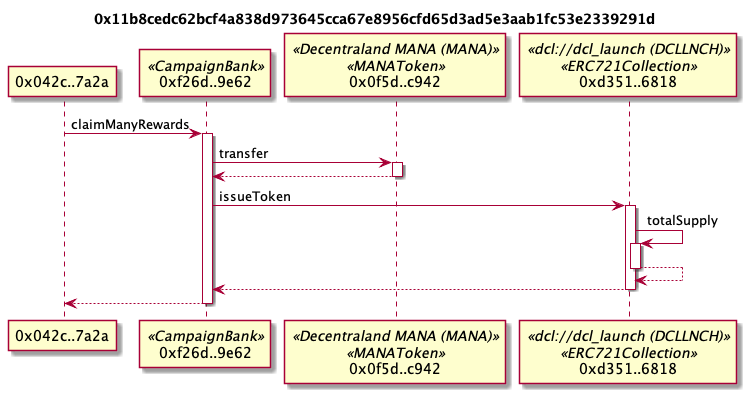
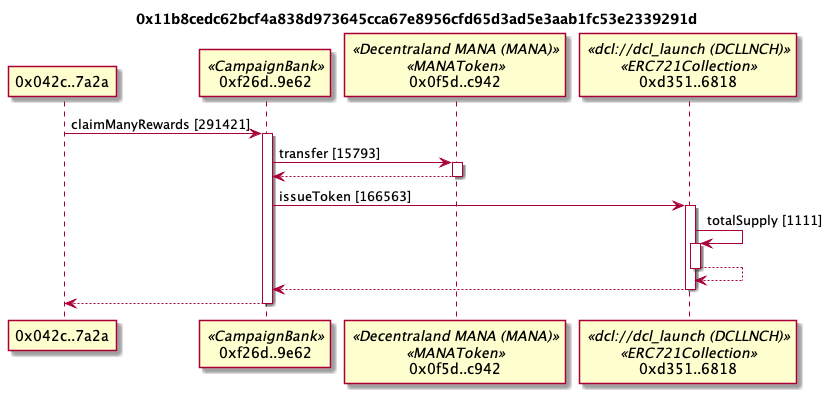
Added -g option for reporting gas usage Bumped version to 0.0.3

diff --git a/lib/plantUmlGenerator.js b/lib/plantUmlGenerator.js
@@ -6,10 +6,10 @@ Object.defineProperty(exports, "__esModule", { value: true });
 const transaction_1 = require("./transaction");
 const bignumber_js_1 = __importDefault(require("bignumber.js"));
 const debug = require("debug")("tx2uml");
-exports.genPlantUml = (messages, contracts, details) => {
+exports.genPlantUml = (messages, contracts, details, options = {}) => {
     let plantUml = `@startuml\ntitle ${details.hash}`;
     plantUml += exports.genParticipants(contracts);
-    plantUml += exports.genMessages(messages);
+    plantUml += exports.genMessages(messages, options);
     plantUml += "\n@endumls";
     debug(plantUml);
     return plantUml;
@@ -39,22 +39,22 @@ exports.participantId = (address) => {
 exports.shortAddress = (address) => {
     return address.substr(0, 6) + ".." + address.substr(-4, 4);
 };
-exports.genMessages = (messages, params = false) => {
+exports.genMessages = (messages, options) => {
     if (!(messages === null || messages === void 0 ? void 0 : messages.length)) {
         return "";
     }
     let contractCallStack = []; // array of contract addresses
     let previousMessage;
     let plantUml = "\n";
-    // for each contract call
+    // for each contract message
     for (const message of messages) {
         if (previousMessage && message.from !== previousMessage.to) {
             // reserve() is mutable so need to copy the array wih a spread operator
             const reservedCallStack = [...contractCallStack].reverse();
-            for (const contractAddress of reservedCallStack) {
-                plantUml += `return\n`;
+            for (const callStack of reservedCallStack) {
+                plantUml += genEndLifeline(callStack);
                 contractCallStack.pop();
-                if (message.from === contractAddress) {
+                if (message.from === callStack.from) {
                     break;
                 }
             }
@@ -62,26 +62,17 @@ exports.genMessages = (messages, params = false) => {
         if (message.type === transaction_1.MessageType.Call ||
             message.type === transaction_1.MessageType.Create) {
             // output call message
-            plantUml += `${exports.participantId(message.from)} ${genArrow(message)} ${exports.participantId(message.to)}: ${genFunctionText(message.payload, params)}\n`;
+            plantUml += `${exports.participantId(message.from)} ${genArrow(message)} ${exports.participantId(message.to)}: ${genFunctionText(message.payload, options.params)}${genGasUsage(message, options.gas)}\n`;
             plantUml += `activate ${exports.participantId(message.to)}\n`;
-            // If a successful transaction
-            if (message.status === true) {
-                contractCallStack.push(message.from);
-            }
-            else {
-                // a failed transaction so end the lifeline
-                plantUml += `destroy ${exports.participantId(message.to)}\n`;
-                if (message.error) {
-                    plantUml += `note right: ${message.error}\n`;
-                }
-                // clear callstack as we don't want to output any more returns
-                contractCallStack = [];
-            }
+            contractCallStack.push(message);
         }
         else if (message.type === transaction_1.MessageType.Value) {
             // convert wei to Ethers which is to 18 decimal places
             const ethers = new bignumber_js_1.default(message.value.toString()).div(new bignumber_js_1.default(10).pow(18));
-            plantUml += `${exports.participantId(message.from)} ${genArrow(message)} ${exports.participantId(message.to)}: ${ethers.toFormat(2)} ETH\n`;
+            plantUml += `${exports.participantId(message.from)} ${genArrow(message)} ${exports.participantId(message.to)}: ${ethers.toFormat(2)} ETH${genGasUsage(message, options.gas)}\n`;
+            // we want to avoid a return in the next loop so setting previous message from field so no returns are printed
+            previousMessage.to = message.from;
+            continue;
         }
         else if (message.type === transaction_1.MessageType.Selfdestruct) {
             plantUml += `return selfdestruct\n`;
@@ -90,9 +81,23 @@ exports.genMessages = (messages, params = false) => {
         }
         previousMessage = message;
     }
-    contractCallStack.reverse().forEach(() => {
-        plantUml += `return\n`;
+    contractCallStack.reverse().forEach(callStack => {
+        plantUml += genEndLifeline(callStack);
     });
+    return plantUml;
+};
+const genEndLifeline = (message) => {
+    let plantUml = "";
+    if (message.status) {
+        plantUml += `return\n`;
+    }
+    else {
+        // a failed transaction so end the lifeline
+        plantUml += `destroy ${exports.participantId(message.to)}\n`;
+    }
+    if (message.error) {
+        plantUml += `note right of ${exports.participantId(message.to)}: ${message.error}\n`;
+    }
     return plantUml;
 };
 const genArrow = (message) => {
@@ -129,7 +134,7 @@ exports.genParams = (params) => {
     }
     let plantUml = "";
     for (const param of params) {
-        if (param.type === " address") {
+        if (param.type === "address") {
             plantUml += `${param.name}: ${exports.shortAddress(param.value)}, `;
         }
         else {
@@ -137,5 +142,11 @@ exports.genParams = (params) => {
         }
     }
     return plantUml.slice(0, -2);
+};
+const genGasUsage = (message, gasUsage = false) => {
+    if (!gasUsage) {
+        return "";
+    }
+    return ` [${message.gasUsed}]`;
 };
 //# sourceMappingURL=plantUmlGenerator.js.map

diff --git a/src/ts/plantUmlGenerator.ts b/src/ts/plantUmlGenerator.ts
@@ -10,14 +10,20 @@ import BigNumber from "bignumber.js"
 
 const debug = require("debug")("tx2uml")
 
+export interface PumlGenerationOptions {
+  gas?: boolean
+  params?: boolean
+}
+
 export const genPlantUml = (
   messages: Message[],
   contracts: Contracts,
-  details: TransactionDetails
+  details: TransactionDetails,
+  options: PumlGenerationOptions = {}
 ): string => {
   let plantUml = `@startuml\ntitle ${details.hash}`
   plantUml += genParticipants(contracts)
-  plantUml += genMessages(messages)
+  plantUml += genMessages(messages, options)
 
   plantUml += "\n@endumls"
 
@@ -60,7 +66,7 @@ export const shortAddress = (address: string): string => {
 
 export const genMessages = (
   messages: Message[],
-  params: boolean = false
+  options: PumlGenerationOptions
 ): string => {
   if (!messages?.length) {
     return ""
@@ -91,8 +97,8 @@ export const genMessages = (
         message
       )} ${participantId(message.to)}: ${genFunctionText(
         message.payload,
-        params
-      )}\n`
+        options.params
+      )}${genGasUsage(message, options.gas)}\n`
       plantUml += `activate ${participantId(message.to)}\n`
 
       contractCallStack.push(message)
@@ -103,7 +109,10 @@ export const genMessages = (
       )
       plantUml += `${participantId(message.from)} ${genArrow(
         message
-      )} ${participantId(message.to)}: ${ethers.toFormat(2)} ETH\n`
+      )} ${participantId(message.to)}: ${ethers.toFormat(2)} ETH${genGasUsage(
+        message,
+        options.gas
+      )}\n`
       // we want to avoid a return in the next loop so setting previous message from field so no returns are printed
       previousMessage.to = message.from
       continue
@@ -174,7 +183,7 @@ export const genParams = (params: Param[]): string => {
 
   let plantUml = ""
   for (const param of params) {
-    if (param.type === " address") {
+    if (param.type === "address") {
       plantUml += `${param.name}: ${shortAddress(param.value)}, `
     } else {
       plantUml += `${param.name}: ${param.value}, `
@@ -182,4 +191,11 @@ export const genParams = (params: Param[]): string => {
   }
 
   return plantUml.slice(0, -2)
+}
+
+const genGasUsage = (message: Message, gasUsage: boolean = false): string => {
+  if (!gasUsage) {
+    return ""
+  }
+  return ` [${message.gasUsed}]`
 }

diff --git a/lib/tx2uml.js b/lib/tx2uml.js
@@ -17,8 +17,8 @@ Generates a UML sequence diagram for a transaction's contract calls.`)
     .option("-n, --network <network>", "mainnet, ropsten, kovan or rinkeby", "mainnet")
     .option("-e, --etherscanApiKey <key>", "Etherscan API Key")
     .option("-a, --alethioApiKey <key>", "Alethio API Key")
-    // .option('-p, --params', 'show function params and return values', false)
-    // .option('-g, --gas', 'show gas usages', false)
+    .option("-p, --params", "show function params and return values", false)
+    .option("-g, --gas", "show gas usages", false)
     .option("-v, --verbose", "run with debugging statements", false)
     .parse(process.argv);
 if (program.verbose) {
@@ -36,7 +36,10 @@ const tx2uml = async () => {
         etherscanApiKey: program.etherscanApiKey,
         network: program.network
     });
-    const plantUml = plantUmlGenerator_1.genPlantUml(messages, contracts, details);
+    const plantUml = plantUmlGenerator_1.genPlantUml(messages, contracts, details, {
+        params: program.params,
+        gas: program.gas
+    });
     await fileGenerator_1.generateFile(plantUml, {
         format: program.outputFormat,
         filename: program.outputFileName || txHash

diff --git a/lib/plantUmlGenerator.d.ts b/lib/plantUmlGenerator.d.ts
@@ -1,7 +1,11 @@
 import { Contracts, Message, Param, TransactionDetails } from "./transaction";
-export declare const genPlantUml: (messages: Message[], contracts: Contracts, details: TransactionDetails) => string;
+export interface PumlGenerationOptions {
+    gas?: boolean;
+    params?: boolean;
+}
+export declare const genPlantUml: (messages: Message[], contracts: Contracts, details: TransactionDetails, options?: PumlGenerationOptions) => string;
 export declare const genParticipants: (contracts: Contracts) => string;
 export declare const participantId: (address: string) => string;
 export declare const shortAddress: (address: string) => string;
-export declare const genMessages: (messages: Message[], params?: boolean) => string;
+export declare const genMessages: (messages: Message[], options: PumlGenerationOptions) => string;
 export declare const genParams: (params: Param[]) => string;

diff --git a/src/ts/tx2uml.ts b/src/ts/tx2uml.ts
@@ -28,8 +28,8 @@ Generates a UML sequence diagram for a transaction's contract calls.`
   )
   .option("-e, --etherscanApiKey <key>", "Etherscan API Key")
   .option("-a, --alethioApiKey <key>", "Alethio API Key")
-  // .option('-p, --params', 'show function params and return values', false)
-  // .option('-g, --gas', 'show gas usages', false)
+  .option("-p, --params", "show function params and return values", false)
+  .option("-g, --gas", "show gas usages", false)
   .option("-v, --verbose", "run with debugging statements", false)
   .parse(process.argv)
 
@@ -52,7 +52,10 @@ const tx2uml = async () => {
     network: program.network
   })
 
-  const plantUml = genPlantUml(messages, contracts, details)
+  const plantUml = genPlantUml(messages, contracts, details, {
+    params: program.params,
+    gas: program.gas
+  })
 
   await generateFile(plantUml, {
     format: program.outputFormat,

diff --git a/examples/README.md b/examples/README.md
@@ -1,5 +1,14 @@
 # Example UML Sequence Diagrams
 
+## Maker DAO
+
+Locking more ETH in a CDP
+![Maker DAO](./makerDao.png)
+
+```
+tx2uml 0x4d953a8c531624e8336df5060239b7c0462b3d4d0cc5dcbb61af679ba81d161a -g -o makerDao.png
+```
+
 ## Decentraland
 
 ![Decentraland](./decentraland.png)
@@ -31,6 +40,9 @@ tx2uml 0x0a99314379caf3dcbbc6e1f5b0dda8a41e3a8b5a0d9b1c1ec744be1f1cf781ea -o fai
 ## Uniswap
 
 This is example is removing liquidity from the Uniswap MKR pool. The 69.75 ETH is a value transfer, not a contract call.
+This transaction is also a little tricky in the second `removeLiquidity` call is actually a `delegatecall`. The subsequent `balanceOf`, ETH transfer and `transfer` calls are executed by the third contract but made to appear to be executed from the second contract. The ETH transfer is from the second contract even though the third contract executed the code.
+
+At the moment there is no way to identify delegate calls on Alethio so this will have to do for now. Logically it's correct, it's just the gas usage is hard to read as the gas from the `balanceOf` and `transfer` calls is included in the second `removeLiquidity` call.
 
 ![UniswapMKRRemove](./uniswapMKRRemove.png)
 

diff --git a/README.md b/README.md
@@ -40,7 +40,7 @@ Use the `-h` option to see the `tx2uml` CLI usage options
 $ tx2uml -h
 Usage: tx2uml <txHash> [options]
 
-Generates a UML sequence diagram for an Ethereum transaction.
+Generates a UML sequence diagram for a transaction's contract calls.
 
 Options:
   -f, --outputFormat <value>    output file format: png, svg or puml (default: "png")
@@ -48,6 +48,8 @@ Options:
   -n, --network <network>       mainnet, ropsten, kovan or rinkeby (default: "mainnet")
   -e, --etherscanApiKey <key>   Etherscan API Key
   -a, --alethioApiKey <key>     Alethio API Key
+  -p, --params                  show function params and return values (default: false)
+  -g, --gas                     show gas usages (default: false)
   -v, --verbose                 run with debugging statements (default: false)
   -h, --help                    output usage information
 ```
